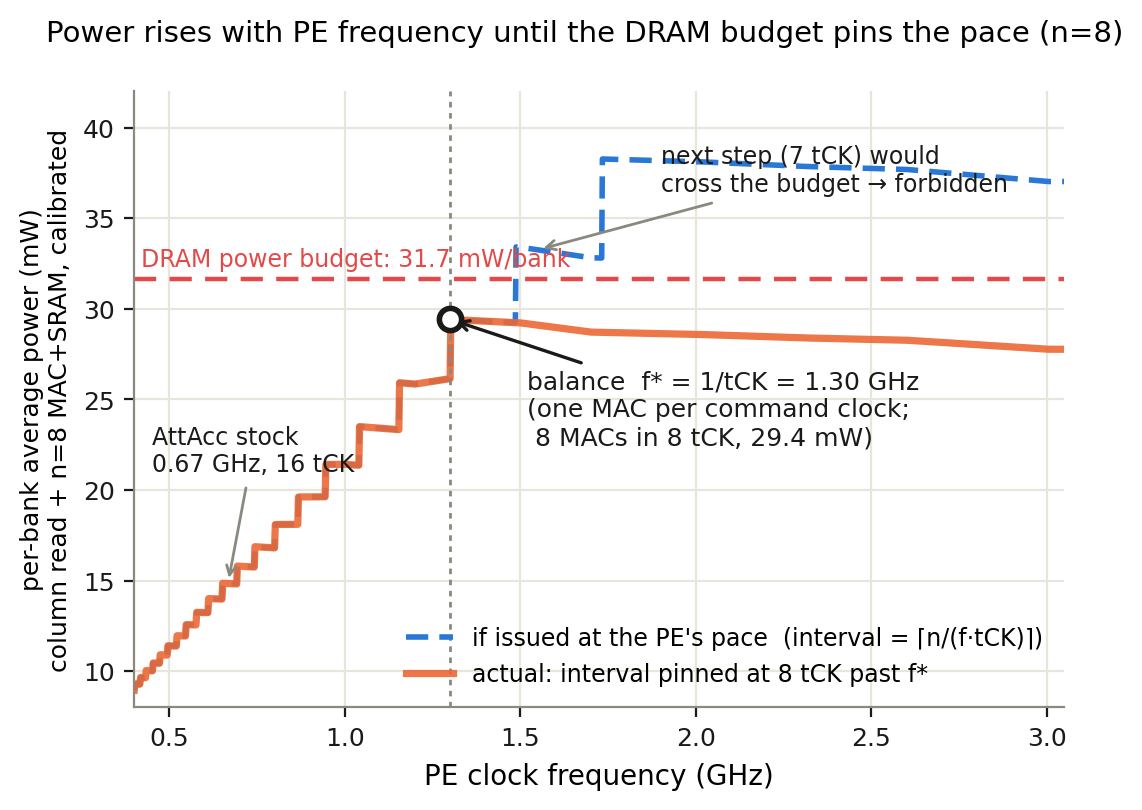
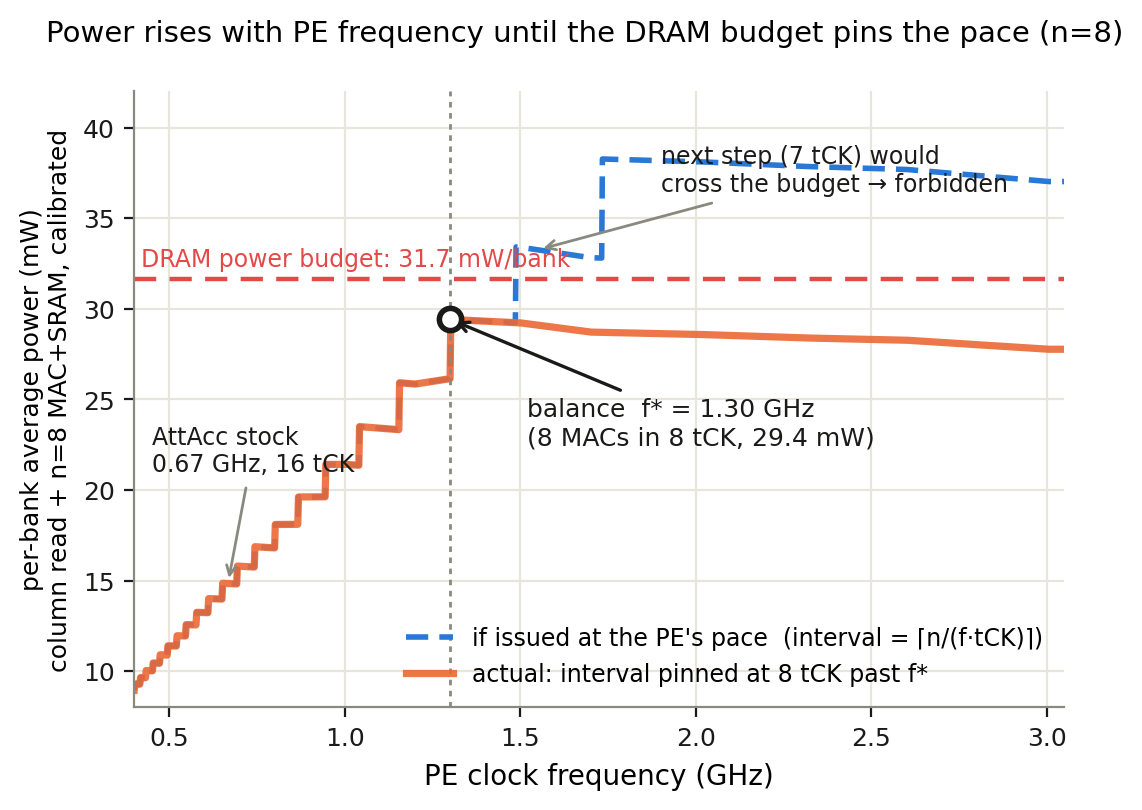
Drop the 'PE clock = DRAM command clock' framing (chenyi9: coincidence)
f* stays stated as 8/(8*tCK) = 1.3004 GHz; the 1/tCK identity and
'one MAC per command clock' phrasing removed from the README, figure
annotation, and script. Also: stale 1.5 GHz reference in the caveats
fixed to the mp1-verified 1.3 GHz, and the mp1 raw-data folder added
to the file list.

Claude-Session: https://claude.ai/code/session_014U1f1RrLAmiGvgGU3PuK3j

Changed region(s): [[0.4597, 0.4321, 0.7968, 0.5556], [0.3984, 0.4012, 0.4597, 0.4321]]

diff --git a/docs/Fugue-asplos2027/plot_balance.py b/docs/Fugue-asplos2027/plot_balance.py
@@ -82,7 +82,7 @@ def main():
     i_min = min(p["i_eff"] for p in pts)
     knee = next(p for p in pts if p["i_eff"] == i_min)
     print(f"balance: f={knee['f_ghz']:.3f} GHz  I={knee['i_eff']:.2f} tCK  "
-          f"(exact threshold: f* = 1/tCK = {1.0/TCK_NS:.4f} GHz)")
+          f"(exact threshold: f* = {1.0/TCK_NS:.4f} GHz)")
 
     power_figure(pts)
 
@@ -94,7 +94,7 @@ def power_figure(pts):
     dropping by one tCK as the PE keeps up with a faster pace); the step that
     would cross the DRAM power budget is forbidden, so the interval pins at
     8 tCK — the balance frequency is where that last admissible step begins:
-    f* = 8 MACs / 8 tCK = 1/tCK = 1.30 GHz (PE clock = DRAM command clock).
+    f* = 8 MACs / 8 tCK = 1.30 GHz.
     """
     budget_mw = E_6_PJ / (FLOOR * TCK_NS)          # 146.03 pJ / 4.614 ns
     fgrid = [0.4 + 0.002 * i for i in range(int((3.05 - 0.4) / 0.002) + 1)]
@@ -143,8 +143,8 @@ def power_figure(pts):
     ax.axvline(f_bal, color=MUTED, linewidth=1, linestyle=(0, (2, 2)))
     ax.plot([f_bal], [pavg(f_bal, 8)], "o", color=INK, markersize=8,
             markerfacecolor="white", markeredgewidth=2, zorder=5)
-    ax.annotate("balance  f* = 1/tCK = 1.30 GHz\n"
-                "(one MAC per command clock;\n 8 MACs in 8 tCK, 29.4 mW)",
+    ax.annotate("balance  f* = 1.30 GHz\n"
+                "(8 MACs in 8 tCK, 29.4 mW)",
                 xy=(f_bal, pavg(f_bal, 8)), xytext=(1.52, 22.5), fontsize=9,
                 color=INK, arrowprops=dict(arrowstyle="->", color=INK, lw=1.2))
     ax.annotate("next step (7 tCK) would\ncross the budget → forbidden",
